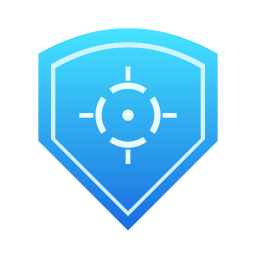
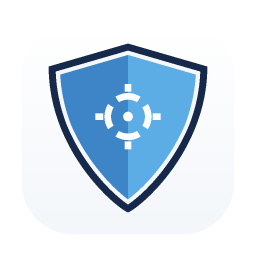
feat(security-scan): move setup into the tile header and refine the HUD
Setup is no longer a page in the tile body. The tile-chrome header now carries
a single Run control that flips to Stop while scanning, plus a gear that opens
a settings dropdown, matching the Memory tile's pattern.

- Settings dropdown holds the model choice; the selected model is shown by
  highlighting the row rather than a radio dot.
- Drop the target picker: the scan takes the project it is opened in.
- Drop the subscription entries: they cannot back a scan, so listing them was
  noise. Only API-key and local-model options are offered.
- Drop the authorization checkbox and its gate. The target is the user's own
  project, so Run now needs only Docker and a selected model.
- Reticle: remove the two stray ring dots and the crosshair ticks that crossed
  the label, tighten the percentage so it reads inside the core, and drop the
  sublabel so the running state shows the percentage alone.
- Icon: redraw the shield to the reference outline. Pointed apex, sloped
  shoulders and a tapering side curve to a sharp point, with no rounded
  corners. The emblem sits on the shield's area centroid, and the border and
  inner line come from a distance transform so their width is uniform.

diff --git a/apps/desktop/src/features/security-scan/ui/SecurityScanHeaderActions.tsx b/apps/desktop/src/features/security-scan/ui/SecurityScanHeaderActions.tsx
@@ -6,21 +6,37 @@ import {
 } from "@hugeicons/core-free-icons"
 
 import { Button } from "@/components/ui/button"
+import {
+  DropdownMenu,
+  DropdownMenuContent,
+  DropdownMenuItem,
+  DropdownMenuLabel,
+  DropdownMenuSeparator,
+  DropdownMenuTrigger,
+} from "@/components/ui/dropdown-menu"
 import { cn } from "@/lib/utils"
 
 import { canStartScan, isScanRunning, useSecurityScanStore } from "../model/securityScanStore"
 
 /**
- * The scan's run controls and setup toggle, rendered in the tile-chrome header beside the
- * window actions. Reads the shared store so it stays in step with the tile body.
+ * The scan's run control and setup, in the tile-chrome header beside the window actions.
+ * Run flips to Stop while scanning. The gear opens a settings dropdown (model + consent),
+ * controlled by the shared store so the welcome screen's "Get started" opens it too.
  */
 export function SecurityScanHeaderActions() {
   const running = useSecurityScanStore((state) => isScanRunning(state.run))
   const canStart = useSecurityScanStore(canStartScan)
   const setupOpen = useSecurityScanStore((state) => state.setupOpen)
+  const setSetupOpen = useSecurityScanStore((state) => state.setSetupOpen)
   const startScan = useSecurityScanStore((state) => state.startScan)
   const cancelScan = useSecurityScanStore((state) => state.cancelScan)
-  const toggleSetup = useSecurityScanStore((state) => state.toggleSetup)
+
+  const environment = useSecurityScanStore((state) => state.environment)
+  const backendOptions = useSecurityScanStore((state) => state.backendOptions)
+  const selectedBackendId = useSecurityScanStore((state) => state.selectedBackendId)
+  const selectBackend = useSecurityScanStore((state) => state.selectBackend)
+
+  const eligible = backendOptions.filter((option) => option.eligible)
 
   return (
     <div className="flex items-center gap-1">
@@ -52,23 +68,70 @@ export function SecurityScanHeaderActions() {
         </Button>
       )}
 
-      <Button
-        type="button"
-        variant="ghost"
-        size="icon"
-        aria-label="Scan setup"
-        aria-pressed={setupOpen}
-        onClick={(event) => {
-          event.stopPropagation()
-          toggleSetup()
-        }}
-        className={cn(
-          "h-7 w-7 rounded-md border-0 shadow-none transition-colors hover:bg-accent",
-          setupOpen && "bg-accent text-foreground",
-        )}
-      >
-        <HugeiconsIcon icon={__SettingsIcon} className="size-4" />
-      </Button>
+      <DropdownMenu open={setupOpen} onOpenChange={setSetupOpen}>
+        <DropdownMenuTrigger asChild>
+          <Button
+            type="button"
+            variant="ghost"
+            size="icon"
+            aria-label="Scan setup"
+            className={cn(
+              "h-7 w-7 rounded-md border-0 shadow-none transition-colors hover:bg-accent",
+              setupOpen && "bg-accent text-foreground",
+            )}
+          >
+            <HugeiconsIcon icon={__SettingsIcon} className="size-4" />
+          </Button>
+        </DropdownMenuTrigger>
+
+        <DropdownMenuContent align="end" className="w-72">
+          <DropdownMenuLabel className="text-[11px] font-normal text-muted-foreground">
+            Model
+          </DropdownMenuLabel>
+          {eligible.map((option) => {
+            const selected = option.id === selectedBackendId
+            return (
+              <DropdownMenuItem
+                key={option.id}
+                onSelect={(event) => {
+                  event.preventDefault()
+                  selectBackend(option.id)
+                }}
+                className={cn(
+                  "items-start rounded-md",
+                  selected && "bg-primary/15 text-foreground",
+                )}
+              >
+                <div className="min-w-0">
+                  <div className="flex items-center gap-1.5">
+                    <span className={cn("truncate", selected && "font-medium")}>
+                      {option.label}
+                    </span>
+                    {option.kind === "localModel" && (
+                      <span className="shrink-0 rounded bg-secondary px-1 text-[9px] uppercase text-muted-foreground">
+                        local
+                      </span>
+                    )}
+                  </div>
+                  <div className="truncate font-mono text-[10px] text-muted-foreground">
+                    {option.model}
+                  </div>
+                </div>
+              </DropdownMenuItem>
+            )
+          })}
+
+          {!environment.dockerAvailable && (
+            <>
+              <DropdownMenuSeparator />
+              <div className="px-2 py-1 text-[11px] text-amber-600 dark:text-amber-400">
+                Docker is not running. The scan sandbox needs Docker.
+              </div>
+            </>
+          )}
+
+        </DropdownMenuContent>
+      </DropdownMenu>
     </div>
   )
 }

diff --git a/apps/desktop/src/features/security-scan/model/securityScanStore.ts b/apps/desktop/src/features/security-scan/model/securityScanStore.ts
@@ -38,13 +38,11 @@ export interface SecurityScanStore {
   run: SecurityScanRun | null
   setupOpen: boolean
   selectedBackendId: string | null
-  acknowledged: boolean
   exporting: boolean
 
   setSetupOpen: (open: boolean) => void
   toggleSetup: () => void
   selectBackend: (id: string) => void
-  setAcknowledged: (value: boolean) => void
   startScan: () => void
   cancelScan: () => void
   exportReport: () => Promise<void>
@@ -64,13 +62,11 @@ export const useSecurityScanStore = create<SecurityScanStore>((set, get) => ({
   run: null,
   setupOpen: false,
   selectedBackendId: firstEligibleBackendId(SAMPLE_BACKEND_OPTIONS),
-  acknowledged: false,
   exporting: false,
 
   setSetupOpen: (open) => set({ setupOpen: open }),
   toggleSetup: () => set((state) => ({ setupOpen: !state.setupOpen })),
   selectBackend: (id) => set({ selectedBackendId: id }),
-  setAcknowledged: (value) => set({ acknowledged: value }),
 
   startScan: () => {
     const state = get()
@@ -122,11 +118,10 @@ export function isScanRunning(run: SecurityScanRun | null): boolean {
   return run?.status === "running" || run?.status === "preparing"
 }
 
-/** A scan can start only with Docker, an eligible backend, consent, and nothing running. */
+/** A scan can start with Docker, an eligible model selected, and nothing already running. */
 export function canStartScan(state: SecurityScanStore): boolean {
   if (!state.environment.dockerAvailable) return false
   if (isScanRunning(state.run)) return false
-  if (!state.acknowledged) return false
   const option = state.backendOptions.find((item) => item.id === state.selectedBackendId)
   return option?.eligible === true
 }

diff --git a/apps/desktop/src/features/security-scan/ui/hud/ScanReticle.tsx b/apps/desktop/src/features/security-scan/ui/hud/ScanReticle.tsx
@@ -72,8 +72,6 @@ export function ScanReticle({
             strokeLinecap="round"
             className="sscan-glow"
           />
-          <circle cx="120" cy="32" r="2.5" fill="currentColor" />
-          <circle cx="120" cy="208" r="2.5" fill="currentColor" />
         </g>
 
         {/* fast inner ring, short arcs */}
@@ -120,14 +118,6 @@ export function ScanReticle({
           <circle cx="120" cy="120" r="46" fill="url(#sscan-core)" />
         </g>
 
-        {/* crosshair */}
-        <g stroke="currentColor" strokeOpacity="0.5" strokeWidth="1">
-          <line x1="120" y1="86" x2="120" y2="98" />
-          <line x1="120" y1="142" x2="120" y2="154" />
-          <line x1="86" y1="120" x2="98" y2="120" />
-          <line x1="142" y1="120" x2="154" y2="120" />
-        </g>
-
         <defs>
           <radialGradient id="sscan-core" cx="50%" cy="50%" r="50%">
             <stop offset="0%" stopColor="rgba(56,225,255,0.28)" />
@@ -139,8 +129,8 @@ export function ScanReticle({
       <span className="pointer-events-none absolute inset-0 flex flex-col items-center justify-center">
         <span
           className={cn(
-            "font-mono font-semibold tracking-[0.2em] text-[color:var(--sscan-cyan)]",
-            active ? "text-2xl" : "text-lg",
+            "font-mono font-semibold text-[color:var(--sscan-cyan)]",
+            active ? "text-2xl tracking-tight" : "text-lg tracking-[0.15em]",
           )}
           style={{ textShadow: "0 0 12px var(--sscan-cyan-dim)" }}
         >

diff --git a/apps/desktop/src/features/security-scan/ui/SecurityScanTile.tsx b/apps/desktop/src/features/security-scan/ui/SecurityScanTile.tsx
@@ -2,27 +2,23 @@ import { canStartScan, isScanRunning, useSecurityScanStore } from "../model/secu
 import { ScanLaunchView } from "./ScanLaunchView"
 import { ScanReportView } from "./ScanReportView"
 import { ScanRunningView } from "./ScanRunningView"
-import { ScanSetupPanel } from "./ScanSetupPanel"
 import { ScanWelcome } from "./ScanWelcome"
 import "./hud/securityScanHud.css"
 
 /**
  * Phase router for the scan surface. One immersive HUD that moves through: welcome (nothing
- * configured), launch (armed reticle), running (agents at work), report (findings). Setup
- * overlays any phase from the tile-header gear. Run/Stop live in the tile-chrome header.
+ * configured), launch (armed reticle), running (agents at work), report (findings). Setup is
+ * a dropdown from the tile-header gear, and Run/Stop live in that header too.
  */
 export function SecurityScanTile() {
   const run = useSecurityScanStore((state) => state.run)
-  const setupOpen = useSecurityScanStore((state) => state.setupOpen)
   const setSetupOpen = useSecurityScanStore((state) => state.setSetupOpen)
   const ready = useSecurityScanStore(canStartScan)
   const running = isScanRunning(run)
 
   return (
     <div className="sscan-surface">
-      {setupOpen ? (
-        <ScanSetupPanel />
-      ) : !run ? (
+      {!run ? (
         ready ? (
           <ScanLaunchView />
         ) : (

diff --git a/apps/desktop/src/features/security-scan/ui/ScanRunningView.tsx b/apps/desktop/src/features/security-scan/ui/ScanRunningView.tsx
@@ -27,12 +27,7 @@ export function ScanRunningView({ run }: { run: SecurityScanRun }) {
   return (
     <div className="sscan-grid relative flex h-full flex-col overflow-y-auto p-4">
       <div className="flex flex-col items-center py-2">
-        <ScanReticle
-          mode="active"
-          label={`${Math.round(run.progress)}%`}
-          sublabel="Scanning"
-          size={180}
-        />
+        <ScanReticle mode="active" label={`${Math.round(run.progress)}%`} size={180} />
         <div className="mt-2 font-mono text-[10px] uppercase tracking-[0.3em] text-[color:var(--sscan-text-dim)]">
           {run.target.label} · {run.backend.label}
         </div>

diff --git a/apps/desktop/src/features/security-scan/model/sampleScan.ts b/apps/desktop/src/features/security-scan/model/sampleScan.ts
@@ -158,12 +158,4 @@ export const SAMPLE_BACKEND_OPTIONS: readonly SecurityScanBackendOption[] = [
     baseUrl: "http://127.0.0.1:11434",
     eligible: true,
   },
-  {
-    id: "claude-sub",
-    kind: "apiKey",
-    label: "Claude Code (subscription)",
-    model: "anthropic/claude-sonnet-4.6",
-    eligible: false,
-    ineligibleReason: "Subscription logins cannot back a scan. Use an API key or local model.",
-  },
 ]
